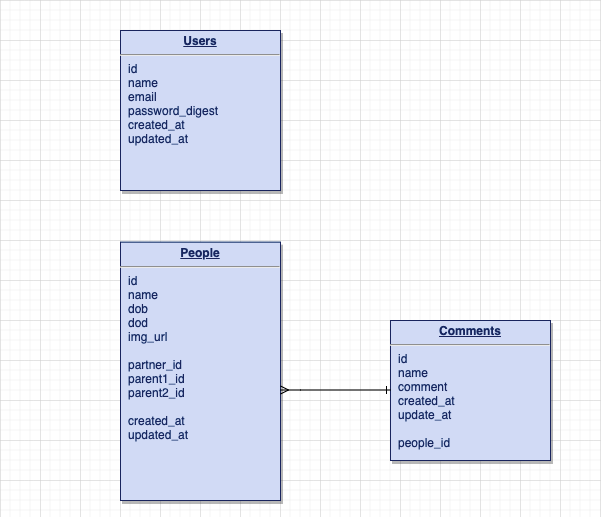
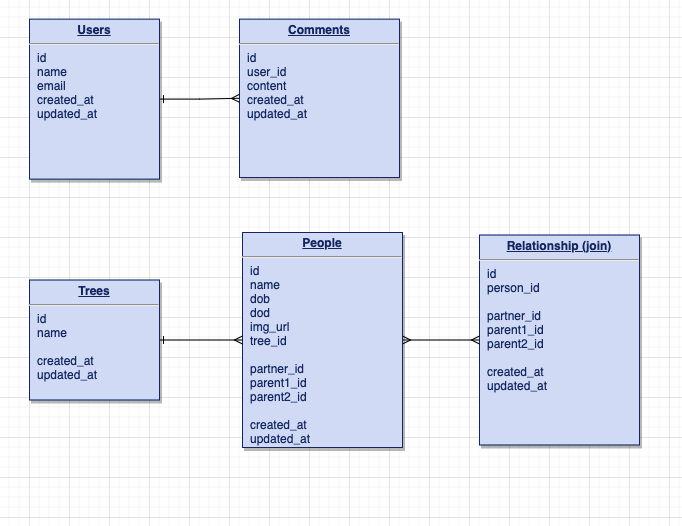
update readme, new ERD img, no readme folder, update components in readme

diff --git a/README.md b/README.md
@@ -1,24 +1,130 @@
-# README
+# Next of Kin
 
-This README would normally document whatever steps are necessary to get the
-application up and running.
+[Github](https://github.com/michaeljgrieshaber/nextOfKin)
 
-Things you may want to cover:
+## Overview
 
-* Ruby version
+Next of Kin is here to help users keep track of their family lineage. They will be able to create family trees and fill the trees with individule family members. Users will also be able to share their trees with others so they can have a cheatsheet to remember their friends large families. Anyone with a link can view trees and details. In order to create/edit trees, create/edit people in trees, or create/delete comments you will need to be logged into the site.
 
-* System dependencies
+## MVP
 
-* Configuration
+1. Functional Code
+2. User authentication
+3. Responsiveness
+4. Full CRUD
+5. Ruby backend
+6. React frontend
+7. Deploy to netlify/heroku
+8. Render info from database
 
-* Database creation
+### Goals
 
-* Database initialization
+### Libraries & Dependencies
 
-* How to run the test suite
+| Library      | Description                                           |
+| ------------ | ----------------------------------------------------- |
+| React        | Front end framework                                   |
+| React Router | Front end navigation                                  |
+| Axios        | Make requests to the server from front end            |
+| Ruby         | Back end server                                       |
+| Pry          | Testing                                               |
+| Bcrypt       | User authentication                                   |
+| JWT          | For cryptic login                                     |
+| Cors         | Controlling what site can make requests to the server |
 
-* Services (job queues, cache servers, search engines, etc.)
+### Client (Front End)
 
-* Deployment instructions
+[Wireframe](https://www.figma.com/file/mHiq24pgfwRv7PpvLrPc34/FamilyTree?node-id=0%3A1)
 
-* ...
+[Compnent Tree](https://whimsical.com/next-of-kin-DKwwGHgsri7kZaVf4AzdFW)
+
+Component Architecture
+
+```
+src
+|__ Services/
+      |__ apiConfig.js
+|__ Components/
+      |__ Layout
+          |__ layout.css
+          |__ layout.jsx
+      |__ MainContainer.jsx
+      |__ Logout.jsx
+|__ Screens/
+      |__ Landing
+          |__ landing.jsx
+          |__ landing.css
+      |__ Listing
+          |__ listing.jsx
+          |__ listing.css
+      |__ Tree
+          |__ tree.jsx
+          |__ tree.css
+      |__ CreateTree
+          |__ createTree.jsx
+          |__ CreateTree.css    
+      |__ DetailsPerson
+          |__ detailsPerson.jsx
+          |__ detailsPerson.css
+      |__ CreatePerson
+          |__ createPerson.jsx
+          |__ createPerson.css
+      |__ EditPerson
+          |__ editPerson.jsx
+          |__ editPerson.css
+      |__ Register
+          |__ register.jsx
+          |__ register.css
+      |__ Login
+          |__ login.jsx
+          |__ login.css
+```
+
+Time Estimtates
+| Day | Deliverable | Status |
+| --------- | --------------------------- | ---------- |
+| 11/01/21 | Work on README/pitch | complete |
+| 11/02/21 | Get approved, Code backend | incomplete |
+| 11/03/21 | Code backend, Code frontend | incomplete |
+| 11/04/21 | Code frontend | incomplete |
+| 11/05/21 | Code frontend/CSS | incomplete |
+| 11/06/21 | CSS | incomplete |
+| 11/07/21 | CSS | incomplete |
+| 11/08/21 | Present | incomplete |
+| 11/08/21+ | Post MVP | incomplete |
+
+| Component            | Priority | Estimated Time | Time Invested |
+| -------------------- | :------: | :------------: | :-----------: |
+| Setting up back end  |    H     |      3hrs      |       ?       |
+| Models               |    M     |      3hrs      |       ?       |
+| User Authentication  |    H     |      6hrs      |       ?       |
+| Routes/Controller    |    H     |      6hrs      |       ?       |
+| Setting up front end |    H     |      3hrs      |       ?       |
+| Screens & routes     |    H     |      3hrs      |       ?       |
+| Forms                |    H     |      6hrs      |       ?       |
+| Axios calls          |    H     |      3hrs      |       ?       |
+| Display logic        |    L     |      3hrs      |       ?       |
+| CSS                  |    L     |      6hrs      |       ?       |
+| Total                |    H     |     42hrs      |       ?       |
+
+### Server (Backend)
+
+![ERD](/ERD.png)
+
+## Post MVP
+
+1. Render each tree in generation order
+2. Use Cloudinary to allow users to upload images directly
+3. Only allow users to edit their own trees but allow other users to leave comments.
+
+## Code Showcase
+
+```
+
+```
+
+## Code Issues & Resolutions
+
+```
+
+```
